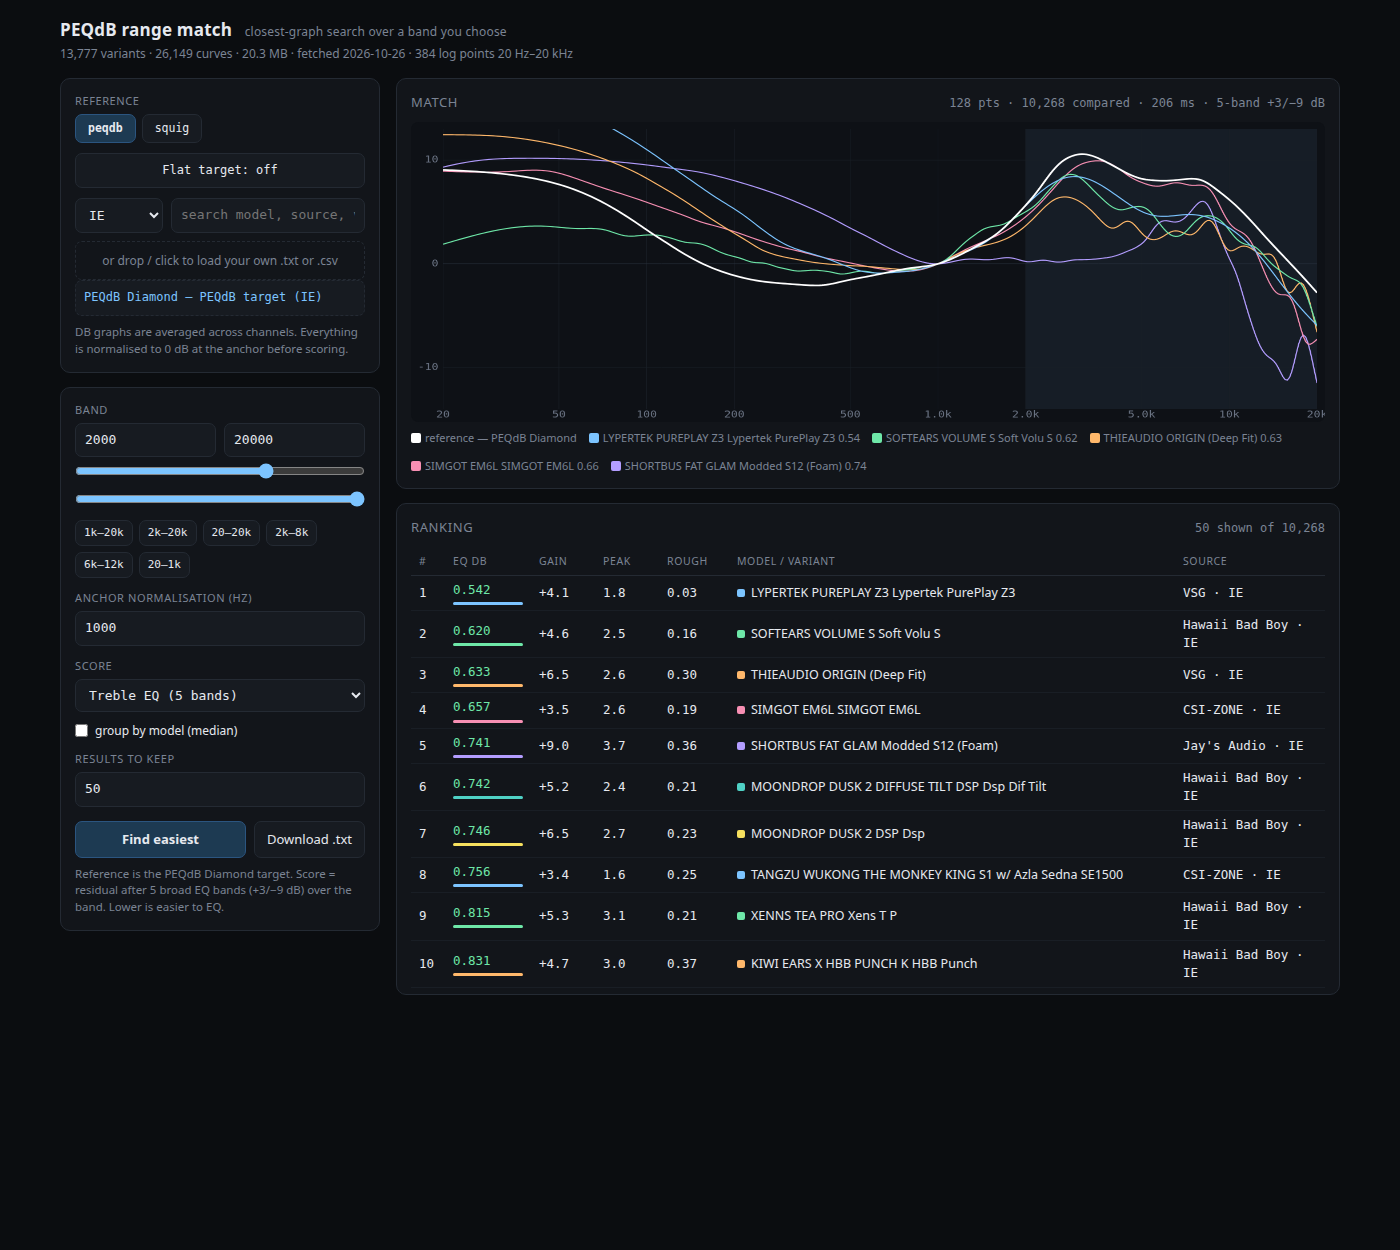
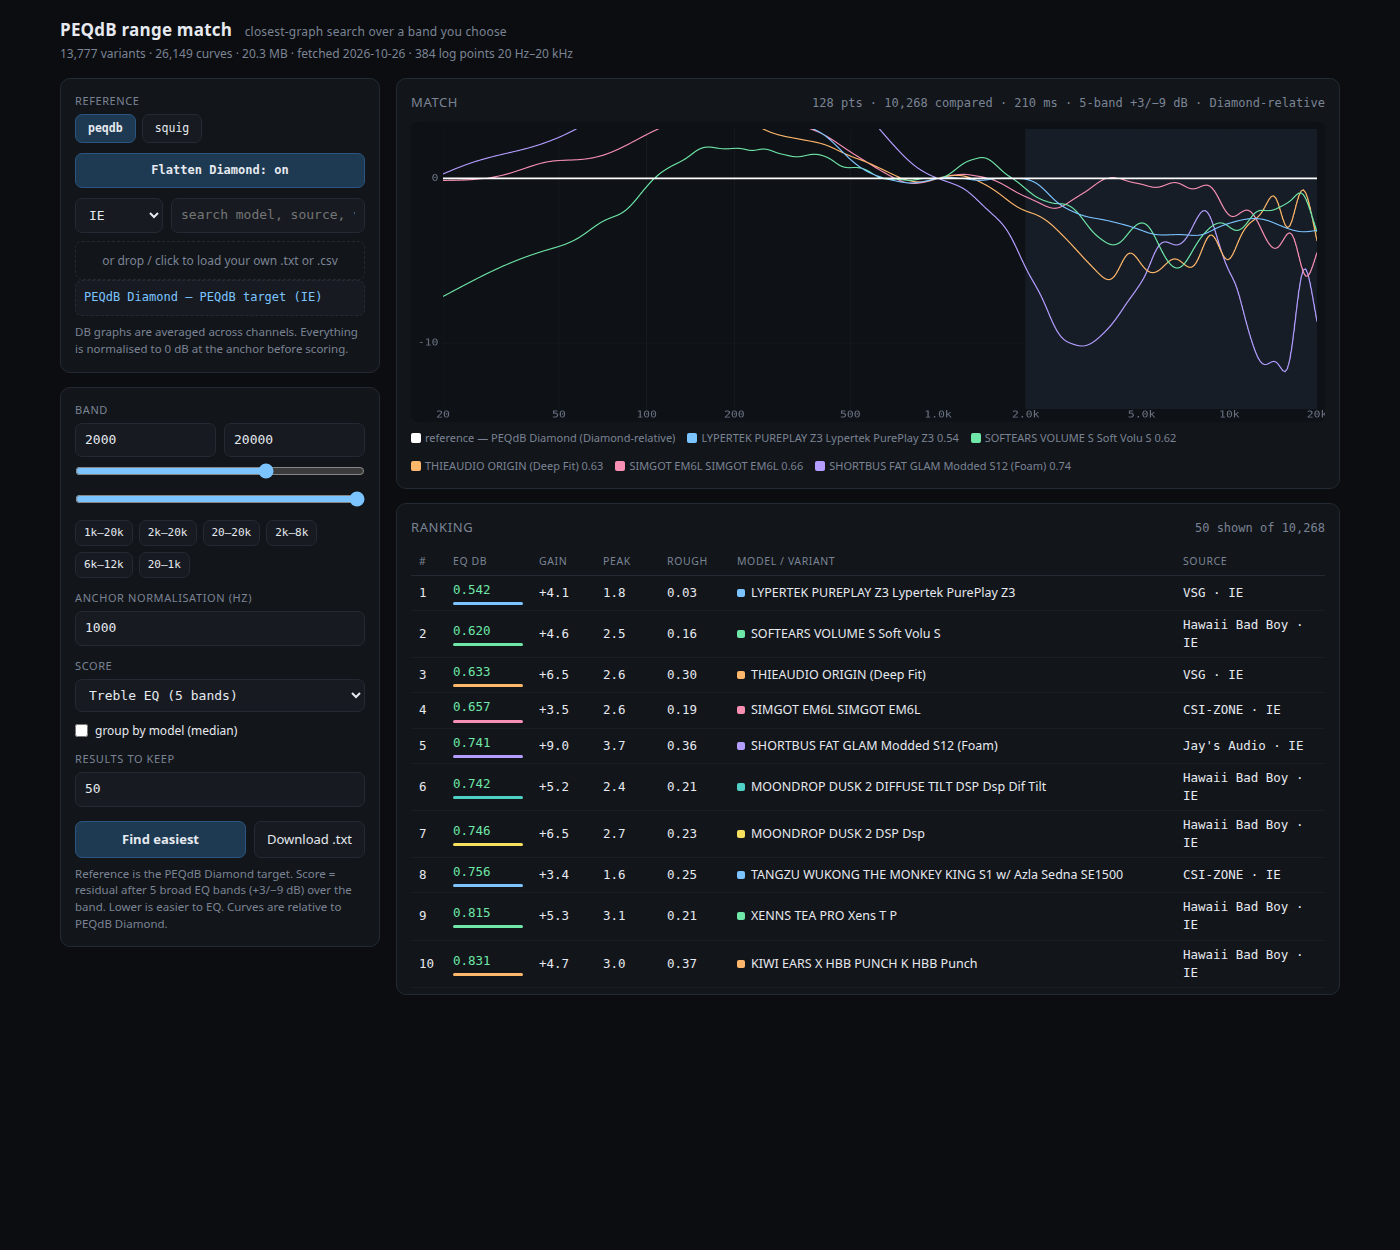
feat: flatten Diamond as a relative reference view

diff --git a/public/index.html b/public/index.html
@@ -95,7 +95,7 @@
         <button id="tab-peqdb" class="tab on">peqdb</button>
         <button id="tab-squig" class="tab">squig</button>
       </div>
-      <button id="flat" class="flat">Flat target: off</button>
+      <button id="flat" class="flat">Flatten Diamond: off</button>
       <div id="peqdb-ref">
         <div class="row" style="margin-bottom:8px">
           <select id="cat" style="flex:0 0 88px"><option value="IE">IE</option><option value="OE">OE</option><option value="BOTH">both</option></select>
@@ -183,7 +183,7 @@ import { eqResidual, makeEqBank, roughness } from './eq.mjs';
 
 const $ = (id) => document.getElementById(id);
 const COLORS = ['#7cc4ff', '#6ee7a8', '#ffb86b', '#f78fb3', '#b39dff', '#4fd1c5', '#f6e05e'];
-const state = { ds: 'peqdb', refs: { peqdb: null, squig: null }, index: null, buf: null, catalog: [], meta: null, results: [], full: [], active: -1, ref: null, mode: 'rmse', group: false, minN: 2, flatPrev: { peqdb: null, squig: null }, flatWanted: false };
+const state = { ds: 'peqdb', refs: { peqdb: null, squig: null }, index: null, buf: null, catalog: [], meta: null, results: [], full: [], active: -1, ref: null, mode: 'rmse', group: false, minN: 2, flattenDiamond: false };
 const squigStore = { loaded: false, loading: null, sites: [], entries: [], targets: [], targetsLoading: null, meta: null, buf: null };
 const DEFAULT_TARGET = 'PEQdB Diamond';
 const FLAT_TARGET = { name: 'Flat Line', group: 'Baseline', kind: 'BOTH', grid: Array.from({ length: N }, (_, k) => ({ f: Number(FREQS[k].toFixed(2)), v: 0 })) };
@@ -196,59 +196,36 @@ function label(entry) {
 function isSquig() { return state.ds === 'squig'; }
 
 function scoreHint() {
-  return state.mode === 'eq'
+  const base = state.mode === 'eq'
     ? 'Score = residual after 5 broad EQ bands (+3/−9 dB) over the band. Lower is easier to EQ.'
     : 'Score = raw RMSE in dB across the band. No mean-offset removal, so a level difference counts against the candidate.';
+  return state.flattenDiamond ? `${base} Curves are relative to PEQdB Diamond.` : base;
 }
 
 function ensureFlatTarget() {
   if (!squigStore.targets.some((t) => t.name === 'Flat Line')) squigStore.targets.push(FLAT_TARGET);
 }
 
-function flatTarget() {
-  ensureFlatTarget();
-  return squigStore.targets.find((t) => t.name === 'Flat Line');
+function diamondGrid(anchorHz) {
+  const target = squigStore.targets.find((t) => t.name === 'PEQdB Diamond');
+  if (!target) return null;
+  const grid = parseCurveText(target.grid.map((row) => `${row.f} ${row.v}`).join('\n')).grid;
+  return anchor(grid, anchorHz);
 }
 
-function isFlat() {
-  return state.ref?.kind === 'target' && state.ref.entry.model === 'Flat Line';
+function syncFlattenButton() {
+  const hasDiamond = squigStore.targets.some((t) => t.name === 'PEQdB Diamond');
+  if (!hasDiamond) state.flattenDiamond = false;
+  $('flat').disabled = !hasDiamond;
+  $('flat').classList.toggle('on', state.flattenDiamond);
+  $('flat').textContent = state.flattenDiamond ? 'Flatten Diamond: on' : 'Flatten Diamond: off';
 }
 
-function syncFlatButton() {
-  const on = isFlat();
-  $('flat').classList.toggle('on', on);
-  $('flat').textContent = on ? 'Flat target: on' : 'Flat target: off';
-}
-
-function toggleFlat() {
-  const ds = state.ds;
-  if (isFlat()) {
-    const prev = state.flatPrev[ds];
-    state.flatPrev[ds] = null;
-    if (prev) {
-      state.refs[ds] = state.ref = prev;
-      $('picked').textContent = prev.entry.display ?? `${label(prev.entry)} — ${prev.entry.source} (${prev.entry.cat})`;
-      $('picked').classList.remove('empty');
-      $('hint').textContent = scoreHint();
-      if (ds === 'squig') syncTargetSelect(prev.entry.model);
-      run();
-    } else {
-      state.refs[ds] = state.ref = null;
-      $('picked').textContent = 'no reference selected';
-      $('picked').classList.add('empty');
-      state.results = [];
-      state.full = [];
-      state.active = -1;
-      $('rows').innerHTML = '';
-      $('count').textContent = '';
-      $('status').textContent = '';
-      $('legend').innerHTML = '';
-    }
-  } else {
-    const flat = flatTarget();
-    if (flat) pickTarget(flat, ds);
-  }
-  syncFlatButton();
+function toggleFlatten() {
+  state.flattenDiamond = !state.flattenDiamond;
+  syncFlattenButton();
+  $('hint').textContent = scoreHint();
+  run();
 }
 
 function syncTargetSelect(name) {
@@ -301,14 +278,11 @@ async function boot() {
   window.__dbg = { state, levelAt, report };
   await loadTargets();
   await applyParams();
+  syncFlattenButton();
   renderHead();
   const p = new URLSearchParams(location.search);
   if (p.get('ds') === 'squig') await switchDs('squig');
   else if (!state.refs.peqdb) await applyTargetDefault('peqdb');
-  if (state.flatWanted) {
-    state.flatWanted = false;
-    if (!isFlat()) toggleFlat();
-  }
 }
 
 async function applyParams() {
@@ -325,7 +299,7 @@ async function applyParams() {
   if (p.get('mode') === 'eq') $('mode').value = 'eq';
   if (p.get('group') === '1') { $('group').checked = true; state.group = true; }
   if (p.get('minn')) $('minN').value = p.get('minn');
-  state.flatWanted = p.get('flat') === '1';
+  state.flattenDiamond = p.get('flat') === '1';
   state.minN = Number($('minN').value);
   $('minNRow').style.display = state.group ? 'flex' : 'none';
   state.mode = $('mode').value;
@@ -403,7 +377,6 @@ function search(q) {
 }
 
 function pick(entry) {
-  state.flatPrev[state.ds] = null;
   state.refs[state.ds] = state.ref = { kind: 'db', entry, grid: entryCurve(entry) };
   const p = $('picked');
   p.classList.remove('empty');
@@ -411,7 +384,6 @@ function pick(entry) {
   $('matches').style.display = 'none';
   $('q').value = '';
   $('hint').textContent = scoreHint();
-  syncFlatButton();
   run();
 }
 
@@ -431,8 +403,6 @@ function pickTarget(target, ds = 'squig') {
       ? 'Flat Line — 0 dB baseline (both)'
       : `${target.name} — PEQdB ${target.group === target.name ? 'target' : target.group} (${target.kind})`,
   };
-  if (flat && !isFlat()) state.flatPrev[ds] = state.refs[ds];
-  else if (!flat) state.flatPrev[ds] = null;
   state.refs[ds] = state.ref = { kind: 'target', entry, grid: parsed.grid };
   const p = $('picked');
   p.classList.remove('empty');
@@ -448,7 +418,6 @@ function pickTarget(target, ds = 'squig') {
       ? `Reference is a flat 0 dB line (PEQdB Baseline). ${scoreHint()}`
       : `Reference is the ${target.name} target. ${scoreHint()}`;
   }
-  syncFlatButton();
   run();
 }
 
@@ -472,7 +441,6 @@ function pickFile(file) {
   reader.onload = () => {
     try {
       const parsed = parseCurveText(String(reader.result));
-      state.flatPrev[state.ds] = null;
       state.refs[state.ds] = state.ref = { kind: 'file', entry: { model: file.name.replace(/\.[^.]+$/, ''), variant: '', source: 'local file', cat: '—', start: -1, count: 1 }, grid: parsed.grid, coverage: parsed.coverage };
       const p = $('picked');
       p.classList.remove('empty');
@@ -480,7 +448,6 @@ function pickFile(file) {
       $('hint').textContent = parsed.coverage[1] < Number($('hi').value)
         ? `⚠ your file stops at ${Math.round(parsed.coverage[1])} Hz; the grid is flat above that, so the top of the band is not real data`
         : scoreHint();
-      syncFlatButton();
       run();
     } catch (err) {
       $('hint').textContent = `⚠ ${err.message}`;
@@ -498,7 +465,9 @@ async function run() {
   if (!(hi > lo)) { $('status').textContent = 'band end must exceed start'; return; }
 
   const cat = isSquig() ? $('sCat').value : $('cat').value;
+  const diamond = state.flattenDiamond ? diamondGrid(anchorHz) : null;
   const ref = anchor(state.ref.grid, anchorHz);
+  if (diamond) for (let k = 0; k < N; k++) ref[k] -= diamond[k];
   const skip = isSquig() ? null : state.ref.entry.start;
   const skipModel = state.ref.entry.model;
   const [a, b] = bandIndices(lo, hi);
@@ -516,6 +485,7 @@ async function run() {
     if (/^_EQ|sandbox/i.test(e.model)) continue;
     if (!isSquig() && e.kind !== 'file' && e.start === skip && e.model === skipModel) continue;
     const curve = anchor(entryCurve(e), anchorHz);
+    if (diamond) for (let k = 0; k < N; k++) curve[k] -= diamond[k];
     const s = scoreBand(ref, curve, lo, hi);
     if (!Number.isFinite(s.rmse)) continue;
     const dev = new Float64Array(N);
@@ -530,7 +500,7 @@ async function run() {
   state.active = -1;
 
   const dt = performance.now() - t0;
-  $('status').textContent = `${b - a + 1} pts · ${cands.length.toLocaleString()} compared · ${dt.toFixed(0)} ms${eqMode ? ' · 5-band +3/−9 dB' : ''}`;
+  $('status').textContent = `${b - a + 1} pts · ${cands.length.toLocaleString()} compared · ${dt.toFixed(0)} ms${eqMode ? ' · 5-band +3/−9 dB' : ''}${state.flattenDiamond ? ' · Diamond-relative' : ''}`;
   $('count').textContent = state.group
     ? `${state.results.length} models of ${grouped.length.toLocaleString()}`
     : `${state.results.length} shown of ${cands.length.toLocaleString()}`;
@@ -681,7 +651,7 @@ function draw(ref, lo, hi) {
   for (const db of yTicks) ctx.fillText(`${db}`, pad.l - 8, Y(db));
 
   const leg = $('legend');
-  leg.innerHTML = `<span><i style="background:#fff"></i>reference — ${label(state.ref.entry)}</span>` +
+  leg.innerHTML = `<span><i style="background:#fff"></i>reference — ${label(state.ref.entry)}${state.flattenDiamond ? ' (Diamond-relative)' : ''}</span>` +
     shown.map((s) => `<span><i style="background:${COLORS[state.results.indexOf(s) % COLORS.length]}"></i>${s.group ? `${s.entry.model} median` : label(s.entry)} ${s.score.toFixed(2)}</span>`).join('');
 }
 
@@ -696,9 +666,10 @@ function report() {
   const lines = [
     `PEQdB range match · ${isSquig() ? 'squig mode (community measurements)' : 'peqdb mode'}`,
     `generated   ${stamp}`,
-    `reference   ${label(ref.entry)}  [${ref.entry.source}${ref.entry.cat !== '—' ? ` / ${ref.entry.cat}` : ''}]`,
+    `reference   ${label(ref.entry)}${state.flattenDiamond ? '  [Diamond-relative]' : ''}  [${ref.entry.source}${ref.entry.cat !== '—' ? ` / ${ref.entry.cat}` : ''}]`,
     `band        ${Math.round(lo)}–${Math.round(hi)} Hz  (${b - a + 1} of ${N} grid points)`,
     `anchor      normalised to 0 dB at ${Math.round(anchorHz)} Hz`,
+    ...(state.flattenDiamond ? ['view        Diamond-relative (every curve minus the PEQdB Diamond target)'] : []),
     eqMode
       ? 'metric      5-band EQ residual in dB (+3/−9 dB) over the band; lower is easier to EQ'
       : 'metric      raw RMSE in dB over the band, no mean-offset removal; lower is better',
@@ -729,8 +700,12 @@ function report() {
       );
     }
   });
-  lines.push('', 'Reference curve (Hz dB, 384 log-spaced points):');
+  lines.push('', `Reference curve (Hz dB${state.flattenDiamond ? ', Diamond-relative' : ''}, 384 log-spaced points):`);
   const refGrid = anchor(ref.grid, anchorHz);
+  if (state.flattenDiamond) {
+    const d = diamondGrid(anchorHz);
+    if (d) for (let k = 0; k < N; k++) refGrid[k] -= d[k];
+  }
   for (let k = 0; k < N; k++) lines.push(`${FREQS[k].toFixed(2)} ${refGrid[k].toFixed(3)}`);
   return lines.join('\n');
 }
@@ -810,7 +785,6 @@ function applySquigView() {
     state.ref = savedRef;
     $('picked').textContent = savedRef.entry.display ?? `${savedRef.entry.model} — PEQdB target`;
     $('picked').classList.remove('empty');
-    syncFlatButton();
     run();
     return;
   }
@@ -820,7 +794,7 @@ function applySquigView() {
     : preferred ?? squigStore.targets[0]?.name ?? '';
   const chosen = squigStore.targets.find((t) => t.name === sel.value);
   if (chosen) pickTarget(chosen);
-  else { state.refs.squig = state.ref = null; $('picked').textContent = 'no target selected'; $('picked').classList.add('empty'); syncFlatButton(); }
+  else { state.refs.squig = state.ref = null; $('picked').textContent = 'no target selected'; $('picked').classList.add('empty'); }
 }
 
 async function switchDs(ds) {
@@ -847,7 +821,6 @@ async function switchDs(ds) {
     if (saved) {
       $('picked').textContent = saved.entry.display ?? `${label(saved.entry)} — ${saved.entry.source} (${saved.entry.cat})`;
       $('picked').classList.remove('empty');
-      syncFlatButton();
       run();
     } else {
       await applyTargetDefault('peqdb');
@@ -862,7 +835,6 @@ async function switchDs(ds) {
     } catch (err) {
       $('sub').textContent = `squig cache unavailable — ${err.message}`;
       $('picked').textContent = `squig cache not built — run: node build-squig.mjs`;
-      syncFlatButton();
       return;
     }
     $('run').disabled = false;
@@ -895,7 +867,7 @@ function switchSquigIntoView() {
 
 $('tab-peqdb').onclick = () => switchDs('peqdb');
 $('tab-squig').onclick = () => switchDs('squig');
-$('flat').onclick = toggleFlat;
+$('flat').onclick = toggleFlatten;
 $('targetSel').addEventListener('change', () => {
   const chosen = squigStore.targets.find((t) => t.name === $('targetSel').value);
   if (chosen) pickTarget(chosen);

diff --git a/README.md b/README.md
@@ -105,10 +105,13 @@ target curves squig mode uses are searchable in the peqdb box: type `diamond`
 and the target appears above the measured graphs, or pass `?ref=peqdb diamond`.
 A catalogue hit still wins when `?ref=` matches a real measurement.
 
-The **Flat target** button swaps the reference for PEQdB's Baseline → Flat Line
-(0 dB at every frequency), so you rank deviation from neutral instead of
-deviation from Diamond. It works in both tabs, restores the previous reference
-when toggled off, and is deep-linkable as `?flat=1`.
+The **Flatten Diamond** button re-bases the view on the PEQdB Diamond target:
+Diamond becomes 0 dB and every other target and candidate is shown as its
+deviation from Diamond. The match scores are unchanged — subtracting the same
+curve from both sides cancels — but the graph and the target comparison become
+Diamond-relative. It works in both tabs and is deep-linkable as `?flat=1`. The
+PEQdB `Baseline → Flat Line` target is still available in the target dropdown
+for a plain 0 dB reference.
 
 ## Squig mode
 
@@ -188,7 +191,7 @@ http://127.0.0.1:7319/?ref=moondrop%20variations&lo=1000&hi=20000&cat=IE&top=50&
 `ref` is matched by word against model and variant, then against the target
 names; the first catalogue hit wins. Add `mode=eq` for the Treble EQ score,
 `group=1` to collapse by model, `minn=2` for the minimum measurement count, and
-`flat=1` to start against the flat line.
+`flat=1` to start in the Diamond-relative view.
 
 ## Test
 
@@ -198,8 +201,8 @@ node test.mjs
 ```
 
 The suite covers decode/normalise/band maths, raw RMSE, the 5-band EQ fit
-(broad bump, comb, narrow spike), roughness, the Diamond default, and the squig
-record/phone-book encoders.
+(broad bump, comb, narrow spike), roughness, the Diamond default and its
+relative view, and the squig record/phone-book encoders.
 
 ## Data and attribution
 
